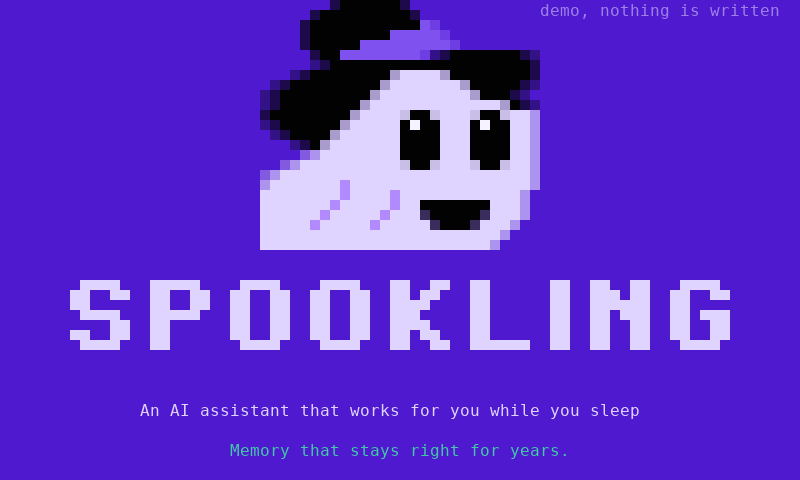
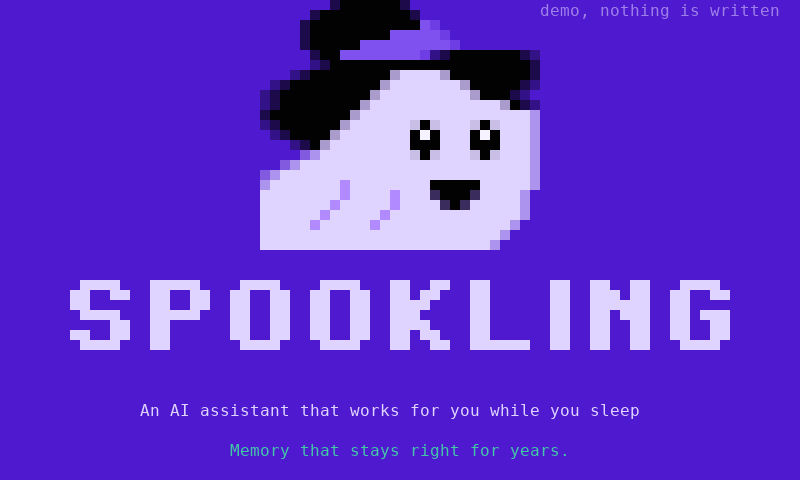
ghost v7: the little face in proportion

Changed region(s): [[0.5, 0.2188, 0.6562, 0.5]]

diff --git a/cli/src/ghost-sprite.js b/cli/src/ghost-sprite.js
@@ -1,4 +1,4 @@
-// Generated by tools/make-ghost.py from tools/ghost-variants/v6.json: edit that, not this file.
+// Generated by tools/make-ghost.py from tools/ghost-variants/v7.json: edit that, not this file.
 export const PALETTE = {"0": null, "1": "#020202", "2": "#7F52EF", "3": "#B28AFF", "4": "#DFD4FF", "a": "#1D0A4A", "b": "#331187", "c": "#AC93EE", "d": "#815AE0", "e": "#A99BCB", "f": "#6E3EE4", "g": "#C9BFE6", "h": "#F7F2FF", "i": "#3A2C5C"};
 export const W = 46, H = 48;
 export const FRAMES = [
@@ -218,18 +218,18 @@ export const SMALL = [
     '0ba111111111e4444444e11111ab',
     'ba111111111e444444444e111ab0',
     'ba11111111e4444444444444e1ab',
-    'a11111111e4444g11g444g11g44c',
-    'ba111111e444441h114441h1144c',
-    '0ba1111e4444441111444111144c',
-    '000ba1e44444441111444111144c',
-    '0000dc444444441111444111144c',
-    '00dc4444444444g11g444g11g44c',
+    'a11111111e44444444444444444c',
+    'ba111111e444444g1g444g1g444c',
+    '0ba1111e44444441h14441h1444c',
+    '000ba1e44444444111444111444c',
+    '0000dc444444444g1g444g1g444c',
+    '00dc44444444444444444444444c',
     'dc4444444444444444444444444c',
-    'c44444443444444444444444444c',
-    '44444444344443444444444444c0',
-    '44444443444443441111111444c0',
-    '4444443444443444i11111i444c0',
-    '44444344444344444i111i444c00',
+    'c44444443444444441111144444c',
+    '44444444344443444i111i4444c0',
+    '444444434444434444i1i44444c0',
+    '44444434444434444444444444c0',
+    '4444434444434444444444444c00',
     '444444444444444444444444c000',
     '44444444444444444444444c0000',
   ],
@@ -246,74 +246,74 @@ export const SMALL = [
     '0ba111111111e4444444e11111ab',
     'ba111111111e444444444e111ab0',
     'ba11111111e4444444444444e1ab',
-    'a11111111e4444g11g444g11g44c',
-    'ba111111e444441h114441h1144c',
-    '0ba1111e4444441111444111144c',
-    '000ba1e44444441111444111144c',
-    '0000dc444444441111444111144c',
-    '00dc4444444444g11g444g11g44c',
+    'a11111111e44444444444444444c',
+    'ba111111e444444g1g444g1g444c',
+    '0ba1111e44444441h14441h1444c',
+    '000ba1e44444444111444111444c',
+    '0000dc444444444g1g444g1g444c',
+    '00dc44444444444444444444444c',
     'dc4444443444444444444444444c',
-    'c44444443444434444444444444c',
+    'c44444443444434441111144444c',
+    '44444443444443444i111i4444c0',
+    '444444344444344444i1i44444c0',
+    '44444344444344444444444444c0',
+    '4444444444444444444444444c00',
+    '444444444444444444444444c000',
+    '44444444444444444444444c0000',
+  ],
+  [
+    '00000000a1111a00000000000000',
+    '0000000a111111a0000000000000',
+    '00000a111111111a000000000000',
+    '0000a111111111112f0000000000',
+    '0000a1111111122222f000000000',
+    '0000a11111222222222f00000000',
+    '00000a1122222222fba1111111ab',
+    '00000ba11111111111111111111a',
+    '000ba11111111e4444e11111111a',
+    '0ba111111111e4444444e11111ab',
+    'ba111111111e444444444e111ab0',
+    'ba11111111e4444444444444e1ab',
+    'a11111111e44444444444444444c',
+    'ba111111e444444g1g444g1g444c',
+    '0ba1111e44444441h14441h1444c',
+    '000ba1e44444444111444111444c',
+    '0000dc444444444g1g444g1g444c',
+    '00dc44444444444444444444444c',
+    'dc4444444444444444444444444c',
+    'c44444443444444441111144444c',
+    '44444444344443444i111i4444c0',
+    '444444434444434444i1i44444c0',
+    '44444434444434444444444444c0',
+    '4444434444434444444444444c00',
+    '444444444444444444444444c000',
+    '44444444444444444444444c0000',
+  ],
+  [
+    '00000000a1111a00000000000000',
+    '0000000a111111a0000000000000',
+    '00000a111111111a000000000000',
+    '0000a111111111112f0000000000',
+    '0000a1111111122222f000000000',
+    '0000a11111222222222f00000000',
+    '00000a1122222222fba1111111ab',
+    '00000ba11111111111111111111a',
+    '000ba11111111e4444e11111111a',
+    '0ba111111111e4444444e11111ab',
+    'ba111111111e444444444e111ab0',
+    'ba11111111e4444444444444e1ab',
+    'a11111111e44444444444444444c',
+    'ba111111e444444g1g444g1g444c',
+    '0ba1111e44444441h14441h1444c',
+    '000ba1e44444444111444111444c',
+    '0000dc444444444g1g444g1g444c',
+    '00dc44444444444444444444444c',
+    'dc4444444444444444444444444c',
+    'c44444444444444441111144444c',
+    '44444444344444444i111i4444c0',
+    '444444443444434444i1i44444c0',
     '44444443444443444444444444c0',
-    '44444434444434441111111444c0',
-    '4444434444434444i11111i444c0',
-    '44444444444444444i111i444c00',
-    '444444444444444444444444c000',
-    '44444444444444444444444c0000',
-  ],
-  [
-    '00000000a1111a00000000000000',
-    '0000000a111111a0000000000000',
-    '00000a111111111a000000000000',
-    '0000a111111111112f0000000000',
-    '0000a1111111122222f000000000',
-    '0000a11111222222222f00000000',
-    '00000a1122222222fba1111111ab',
-    '00000ba11111111111111111111a',
-    '000ba11111111e4444e11111111a',
-    '0ba111111111e4444444e11111ab',
-    'ba111111111e444444444e111ab0',
-    'ba11111111e4444444444444e1ab',
-    'a11111111e4444g11g444g11g44c',
-    'ba111111e444441h114441h1144c',
-    '0ba1111e4444441111444111144c',
-    '000ba1e44444441111444111144c',
-    '0000dc444444441111444111144c',
-    '00dc4444444444g11g444g11g44c',
-    'dc4444444444444444444444444c',
-    'c44444443444444444444444444c',
-    '44444444344443444444444444c0',
-    '44444443444443441111111444c0',
-    '4444443444443444i11111i444c0',
-    '44444344444344444i111i444c00',
-    '444444444444444444444444c000',
-    '44444444444444444444444c0000',
-  ],
-  [
-    '00000000a1111a00000000000000',
-    '0000000a111111a0000000000000',
-    '00000a111111111a000000000000',
-    '0000a111111111112f0000000000',
-    '0000a1111111122222f000000000',
-    '0000a11111222222222f00000000',
-    '00000a1122222222fba1111111ab',
-    '00000ba11111111111111111111a',
-    '000ba11111111e4444e11111111a',
-    '0ba111111111e4444444e11111ab',
-    'ba111111111e444444444e111ab0',
-    'ba11111111e4444444444444e1ab',
-    'a11111111e4444g11g444g11g44c',
-    'ba111111e444441h114441h1144c',
-    '0ba1111e4444441111444111144c',
-    '000ba1e44444441111444111144c',
-    '0000dc444444441111444111144c',
-    '00dc4444444444g11g444g11g44c',
-    'dc4444444444444444444444444c',
-    'c44444444444444444444444444c',
-    '44444444344444444444444444c0',
-    '44444444344443441111111444c0',
-    '4444444344444344i11111i444c0',
-    '44444434444434444i111i444c00',
+    '4444443444443444444444444c00',
     '444443444443444444444444c000',
     '44444444444444444444444c0000',
   ],
